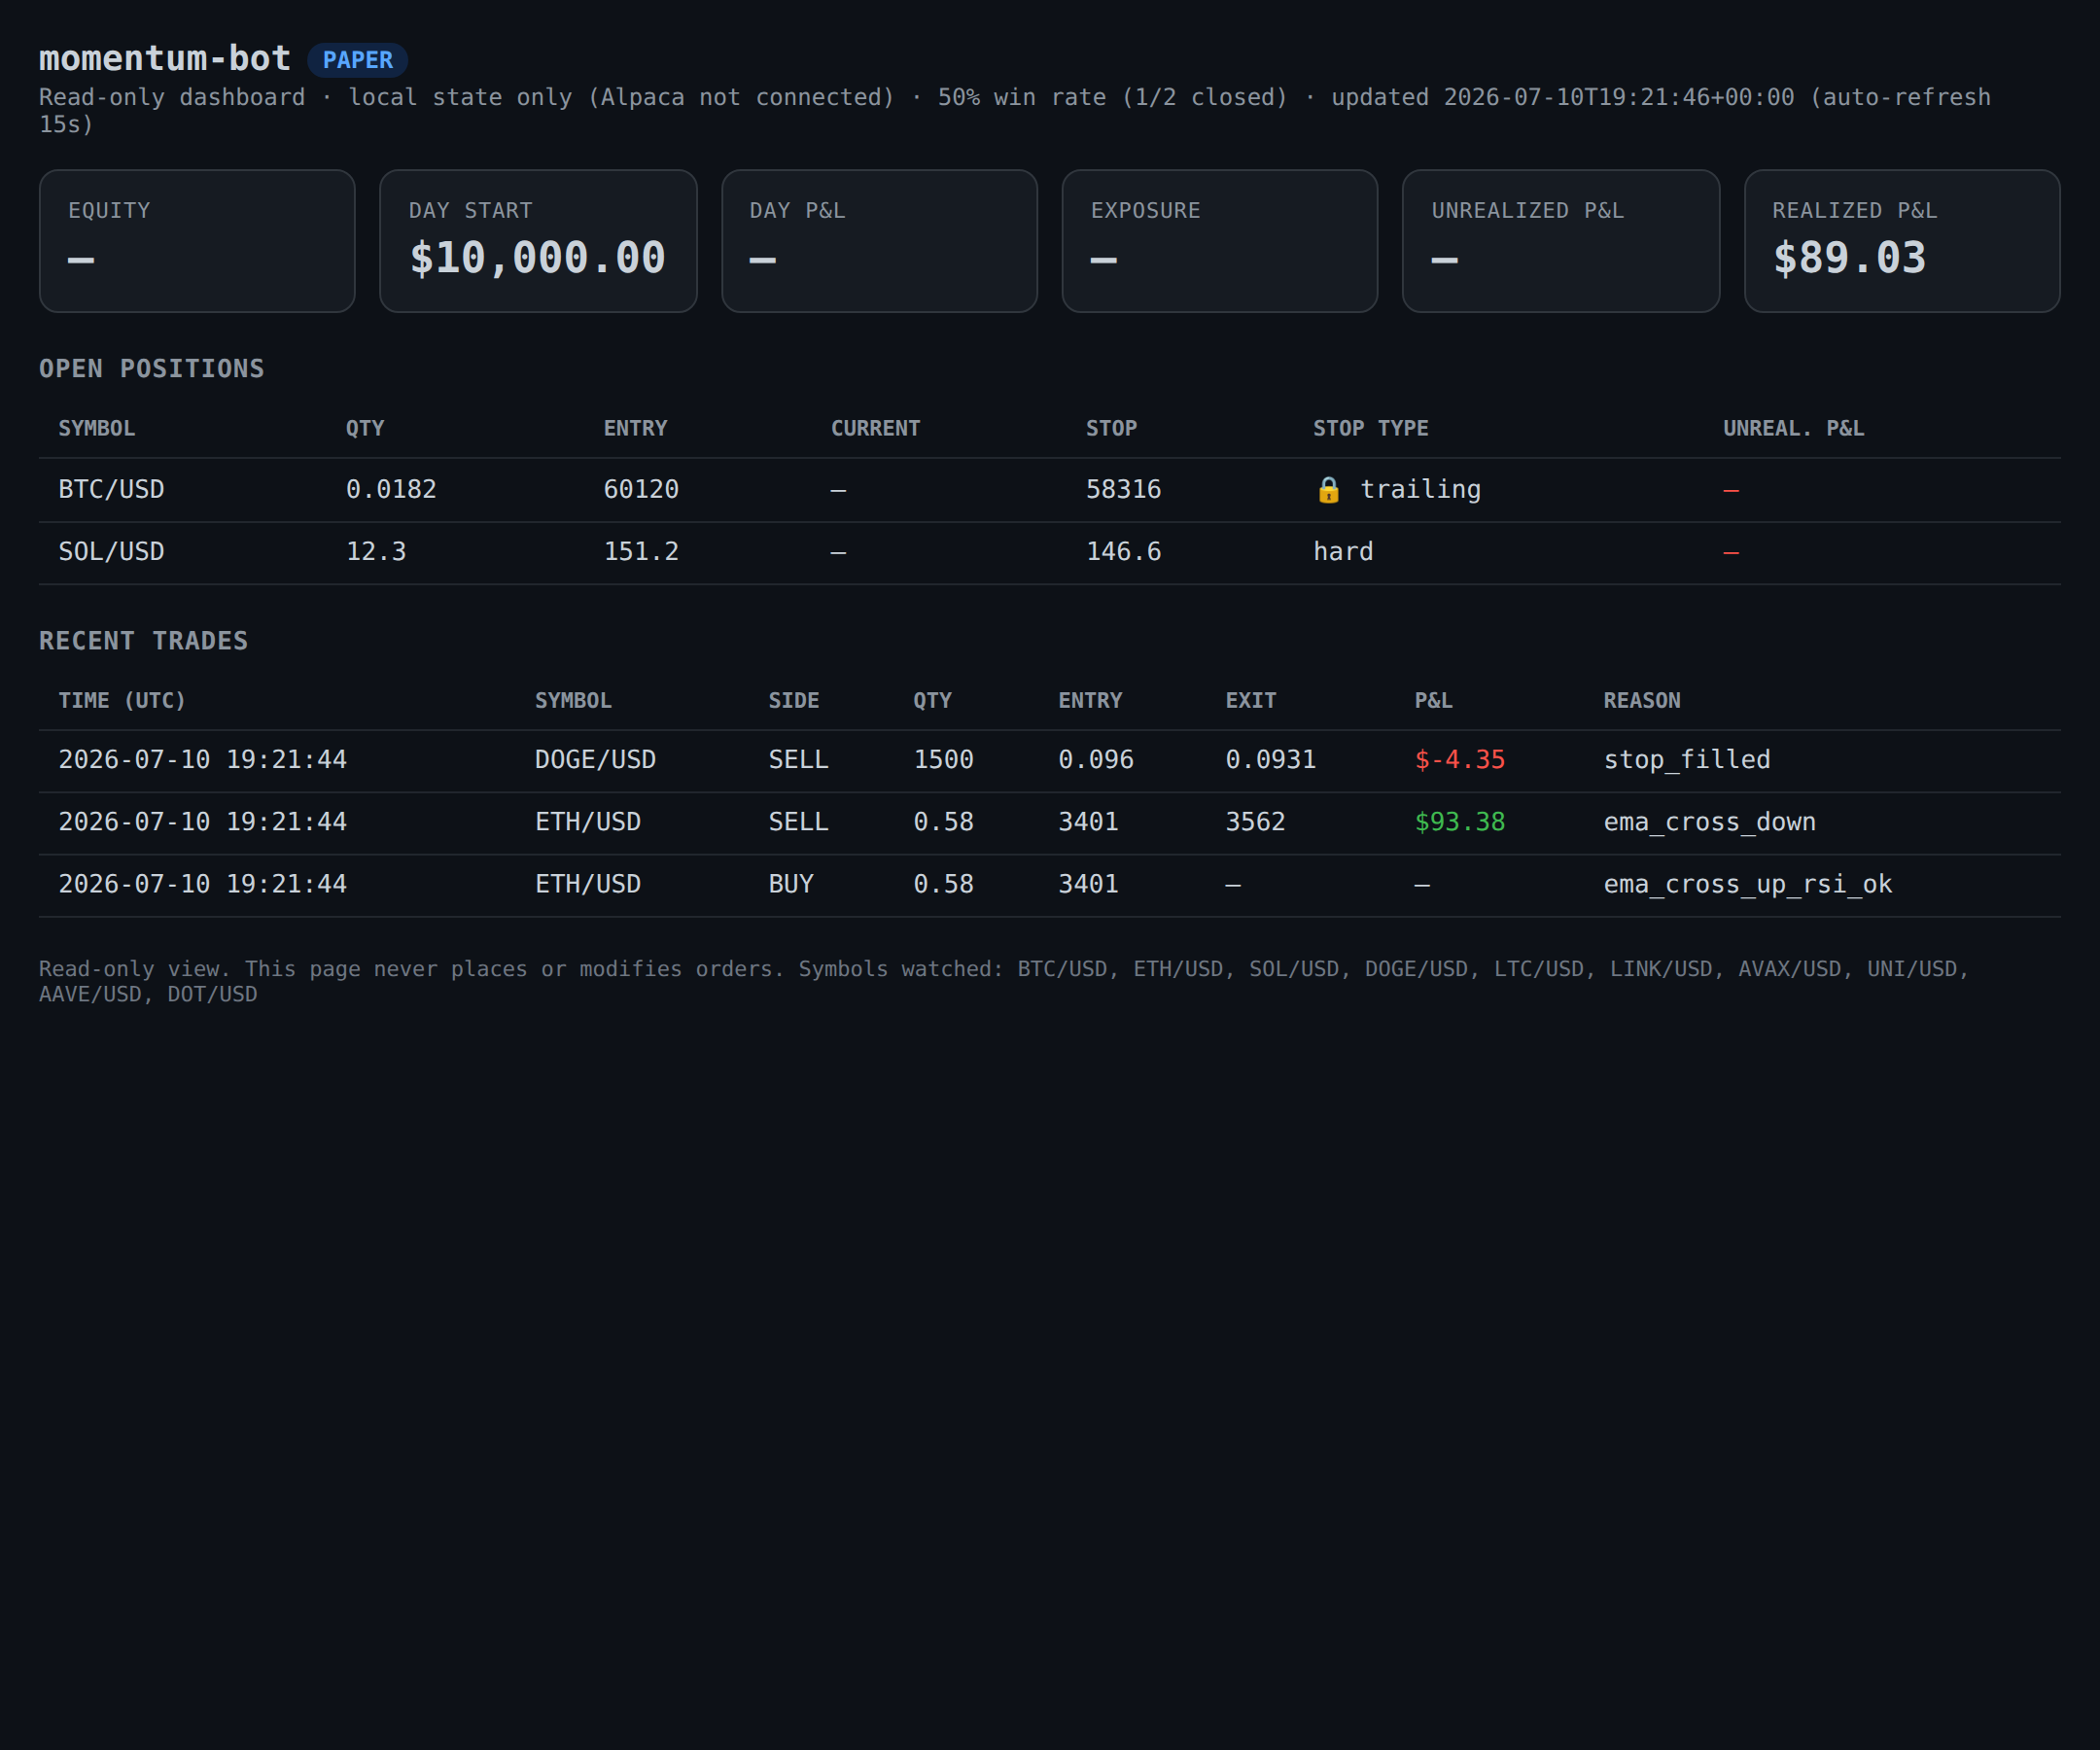
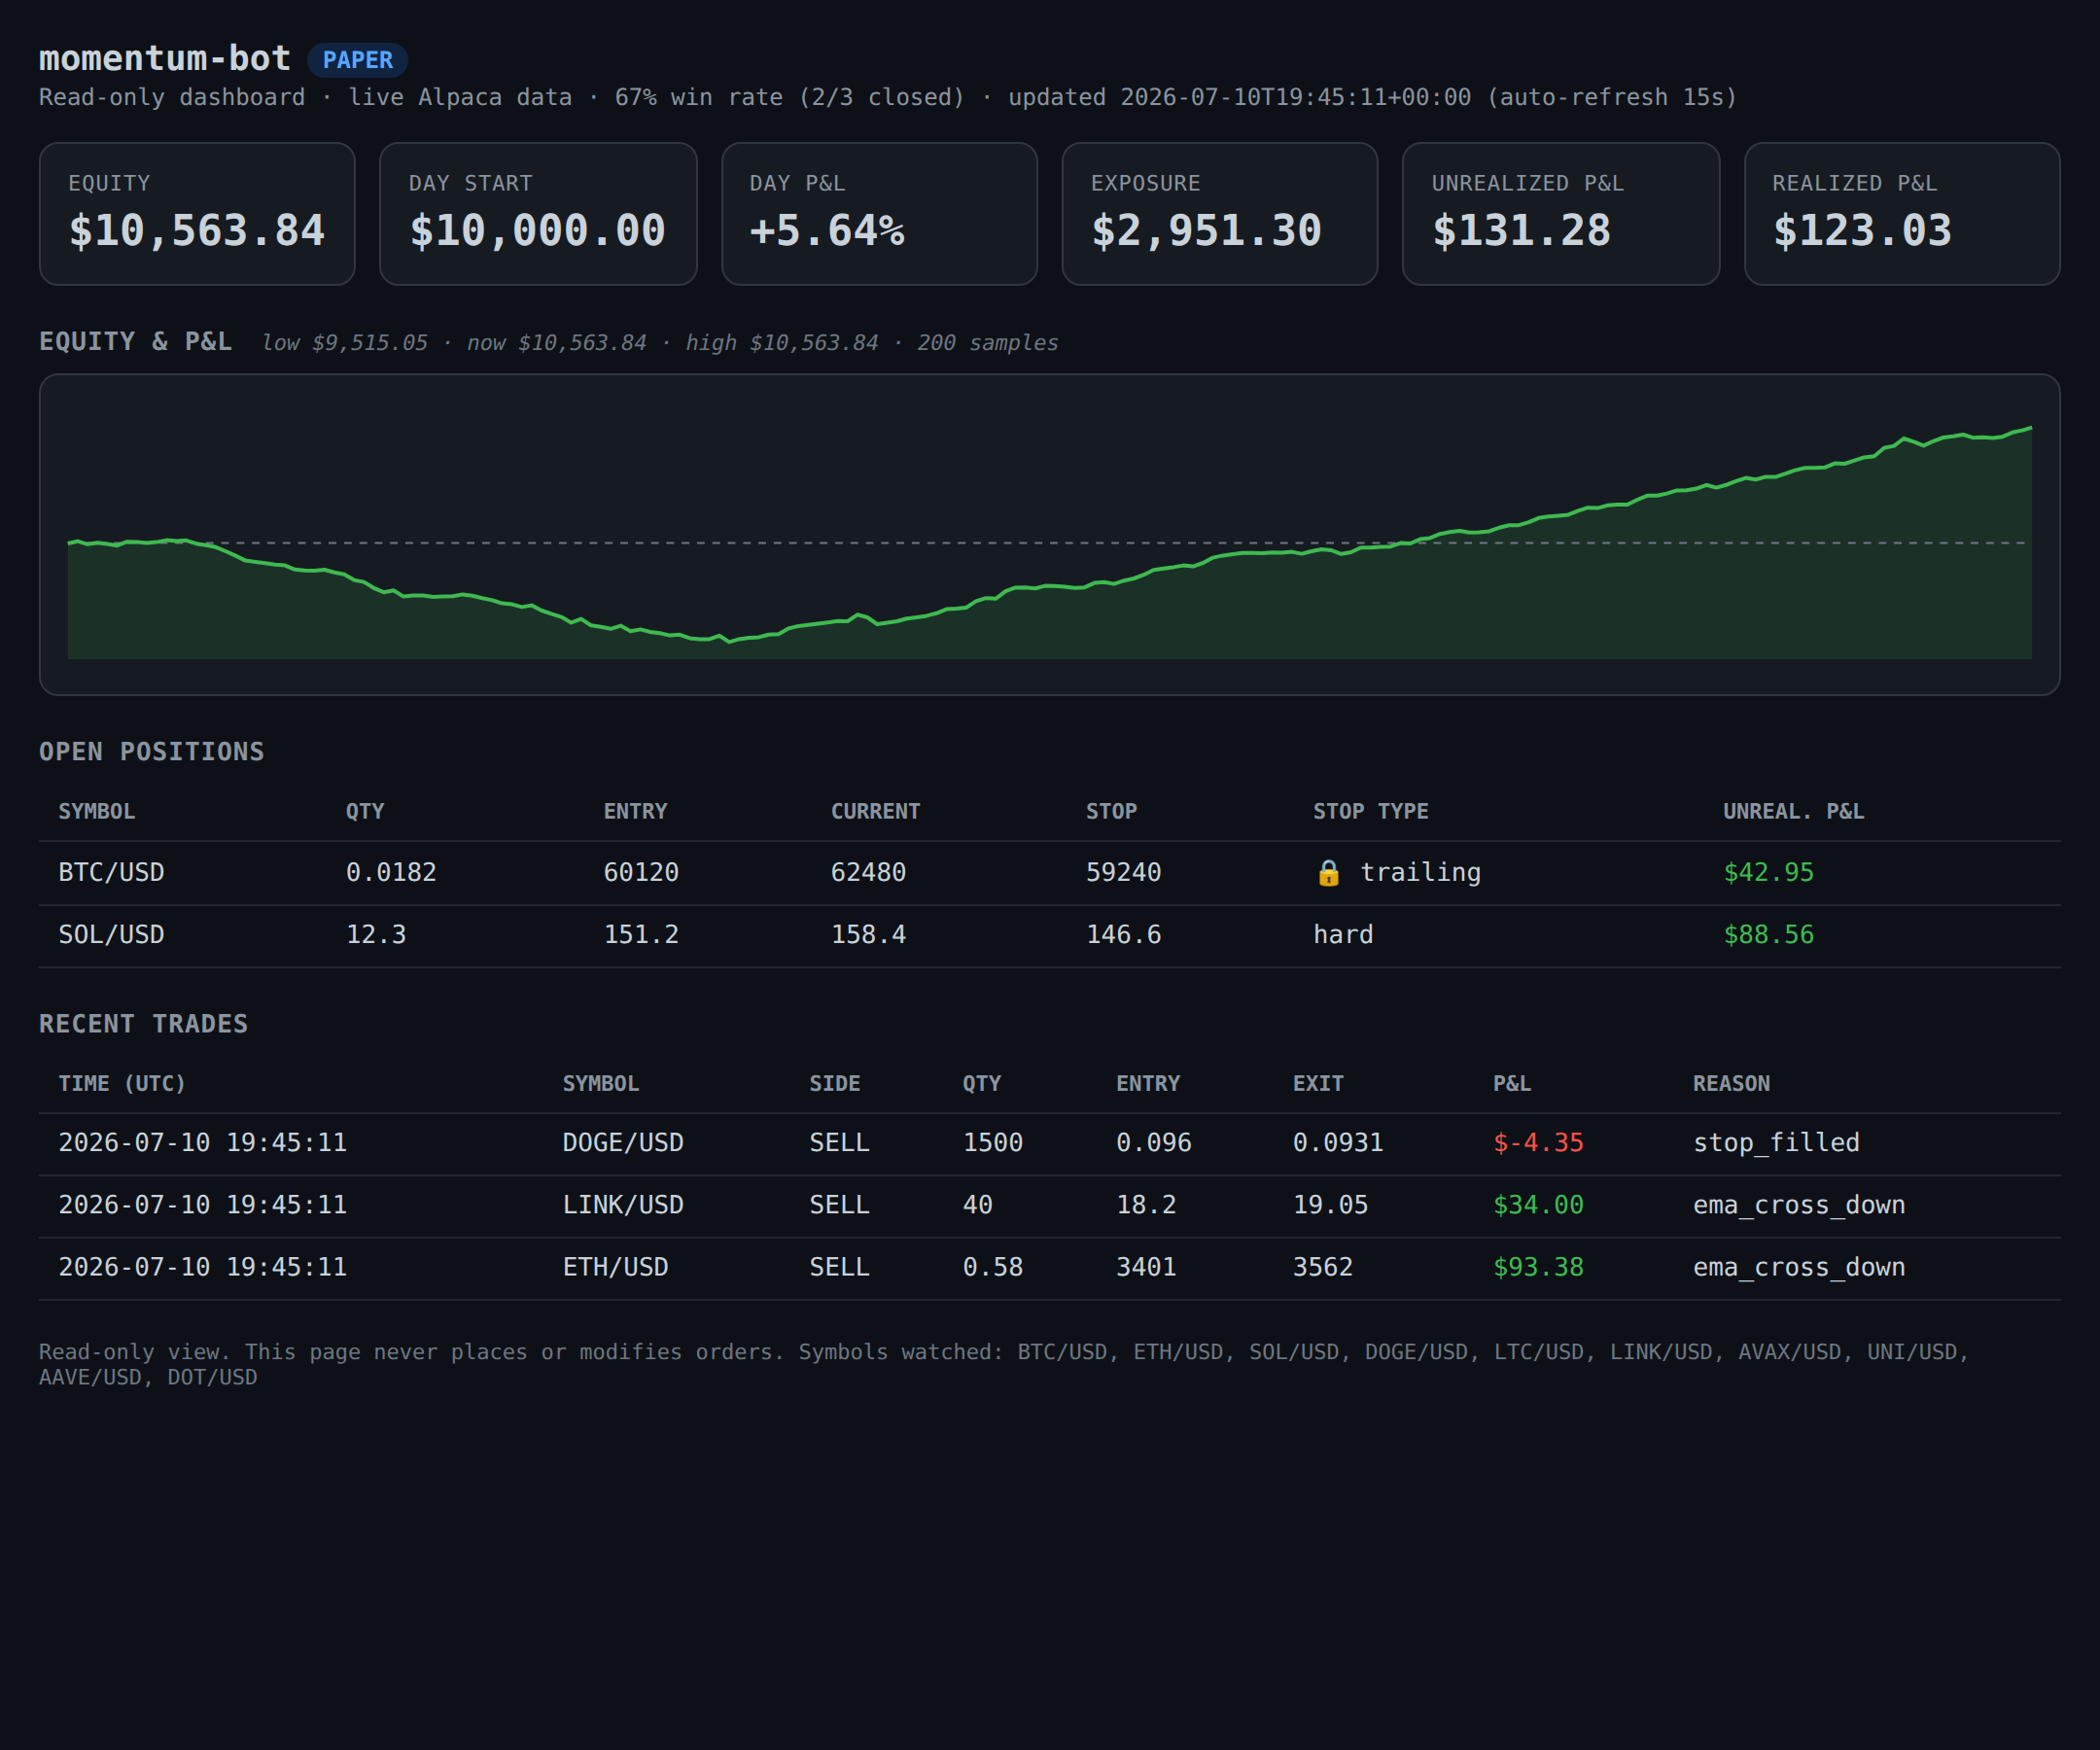
Add equity/P&L chart to the dashboard
The bot now appends an equity sample to a bounded equity_history table each
cycle (state.record_equity, pruned to MAX_EQUITY_POINTS). The read-only
dashboard renders it as an inline SVG area curve with a dashed day-start
baseline — green when equity ends above the baseline, red below — plus a
low/now/high caption. No JS/CDN, so it stays CSP-safe and dependency-free.

- state.py: equity_history table + record_equity/equity_history (bounded)
- main.py: record equity each run_once cycle
- dashboard.py: _equity_history reader, render_equity_chart(), chart section
- tests: +8 (81 total) for history record/read/prune and chart rendering
  (empty/single-point placeholder, svg output, up/down colour, flat-line
  no-crash, snapshot+html integration)
- README + docs/dashboard.png updated

Claude-Session: https://claude.ai/code/session_012T2gc4zFLu9wDsyY67z6Me

diff --git a/momentum-bot/dashboard.py b/momentum-bot/dashboard.py
@@ -77,9 +77,19 @@ class StateReader:
                 "positions": positions,
                 "recent_trades": trades,
                 "stats": stats,
+                "equity_history": self._equity_history(conn),
             }
         finally:
             conn.close()
+
+    def _equity_history(self, conn: sqlite3.Connection) -> List[list]:
+        try:
+            rows = conn.execute(
+                "SELECT timestamp, equity FROM equity_history ORDER BY id ASC"
+            ).fetchall()
+        except sqlite3.Error:
+            return []
+        return [[r["timestamp"], float(r["equity"])] for r in rows]
 
     def _trade_stats(self, conn: sqlite3.Connection) -> Dict[str, Any]:
         try:
@@ -162,6 +172,68 @@ def _fmt_num(v: Any, digits: int = 6) -> str:
         return "—"
 
 
+def render_equity_chart(points: List[list], day_start: Optional[float],
+                        width: int = 1040, height: int = 150) -> str:
+    """Inline SVG equity curve with a dashed day-start baseline.
+
+    Self-contained (no JS/CDN) so it works under a strict CSP. Colours green
+    when the latest equity is at/above the day-start baseline, red below.
+    """
+    if not points or len(points) < 2:
+        return ('<div class="muted chart-empty">Equity chart — collecting '
+                'data (one sample per cycle)…</div>')
+
+    # Downsample so the polyline stays light regardless of history length.
+    max_pts = 240
+    if len(points) > max_pts:
+        step = len(points) / max_pts
+        points = [points[int(i * step)] for i in range(max_pts)]
+    vals = [p[1] for p in points]
+
+    lo, hi = min(vals), max(vals)
+    if day_start:
+        lo, hi = min(lo, day_start), max(hi, day_start)
+    if hi == lo:                      # flat line: avoid zero range
+        hi = lo + max(1.0, abs(lo) * 0.01)
+    pad = (hi - lo) * 0.08
+    lo -= pad
+    hi += pad
+
+    n = len(vals)
+    padL, padR, padT, padB = 8, 8, 10, 12
+    plot_w = width - padL - padR
+    plot_h = height - padT - padB
+
+    def X(i: int) -> float:
+        return padL + plot_w * i / (n - 1)
+
+    def Y(v: float) -> float:
+        return padT + plot_h * (1 - (v - lo) / (hi - lo))
+
+    line = " ".join(f"{X(i):.1f},{Y(v):.1f}" for i, v in enumerate(vals))
+    base_y = padT + plot_h
+    area = f"{X(0):.1f},{base_y:.1f} {line} {X(n - 1):.1f},{base_y:.1f}"
+
+    up = (day_start is None) or (vals[-1] >= day_start)
+    stroke = "#3fb950" if up else "#f85149"
+    fill = "rgba(63,185,80,0.14)" if up else "rgba(248,81,73,0.14)"
+
+    baseline = ""
+    if day_start:
+        by = Y(day_start)
+        baseline = (f'<line x1="{padL}" y1="{by:.1f}" x2="{padL + plot_w:.1f}" '
+                    f'y2="{by:.1f}" stroke="#6e7681" stroke-width="1" '
+                    f'stroke-dasharray="4 4"/>')
+    return (
+        f'<svg viewBox="0 0 {width} {height}" width="100%" height="{height}" '
+        f'preserveAspectRatio="none" role="img" aria-label="Equity over time">'
+        f'<polygon points="{area}" fill="{fill}"/>'
+        f'{baseline}'
+        f'<polyline points="{line}" fill="none" stroke="{stroke}" '
+        f'stroke-width="2" stroke-linejoin="round"/>'
+        f'</svg>')
+
+
 def render_html(snap: Dict[str, Any]) -> str:
     e = html.escape
     mode = snap.get("mode", "PAPER")
@@ -237,6 +309,17 @@ def render_html(snap: Dict[str, Any]) -> str:
     win_line = (f"{win_rate:.0%} win rate ({stats.get('wins',0)}/"
                 f"{stats.get('closed',0)} closed)")
 
+    # Equity chart + a small min/current/max caption.
+    hist = snap.get("equity_history", [])
+    chart_svg = render_equity_chart(hist, snap.get("day_start_equity"))
+    chart_caption = ""
+    if len(hist) >= 2:
+        evals = [h[1] for h in hist]
+        chart_caption = (
+            f'<span class="muted">low {_fmt_money(min(evals))} · '
+            f'now {_fmt_money(evals[-1])} · high {_fmt_money(max(evals))} · '
+            f'{len(hist)} samples</span>')
+
     return f"""<!doctype html>
 <html lang="en"><head>
 <meta charset="utf-8">
@@ -273,6 +356,11 @@ def render_html(snap: Dict[str, Any]) -> str:
     white-space:nowrap; }}
   th {{ color:#8b949e; font-weight:600; font-size:11px; text-transform:uppercase; }}
   .pos {{ color:#3fb950; }} .neg {{ color:#f85149; }}
+  .chart {{ background:#161b22; border:1px solid #30363d; border-radius:10px;
+    padding:8px 6px 2px; margin-bottom:8px; }}
+  .chart-empty {{ padding:28px 0; }}
+  h2 .muted {{ font-size:11px; text-transform:none; letter-spacing:0;
+    font-weight:400; margin-left:6px; }}
   .muted {{ color:#6e7681; text-align:center; font-style:italic; }}
   .foot {{ color:#6e7681; font-size:11px; margin-top:20px; }}
 </style></head>
@@ -282,6 +370,9 @@ def render_html(snap: Dict[str, Any]) -> str:
     updated {e(snap.get("generated_at",""))} (auto-refresh 15s)</div>
   {kill_banner}
   <div class="cards">{card_html}</div>
+
+  <h2>Equity &amp; P&amp;L {chart_caption}</h2>
+  <div class="chart">{chart_svg}</div>
 
   <h2>Open positions</h2>
   <div class="wrap"><table>

diff --git a/momentum-bot/tests/test_dashboard.py b/momentum-bot/tests/test_dashboard.py
@@ -75,6 +75,49 @@ def test_render_html_is_valid_and_readonly(populated):
     assert "<form" not in page.lower()
 
 
+def test_equity_chart_empty_placeholder():
+    svg = dashboard.render_equity_chart([], 10_000.0)
+    assert "collecting" in svg.lower()
+    assert "<svg" not in svg  # placeholder, not a chart
+    # A single point is still not enough to draw a line.
+    assert "<svg" not in dashboard.render_equity_chart([["t", 10_000.0]], 10_000.0)
+
+
+def test_equity_chart_renders_svg():
+    pts = [["t0", 10_000.0], ["t1", 10_120.0], ["t2", 10_080.0], ["t3", 10_250.0]]
+    svg = dashboard.render_equity_chart(pts, 10_000.0)
+    assert svg.startswith("<svg") and "polyline" in svg
+    assert "stroke-dasharray" in svg           # day-start baseline drawn
+    assert "#3fb950" in svg                     # green: ends above baseline
+
+
+def test_equity_chart_red_when_below_baseline():
+    pts = [["t0", 10_000.0], ["t1", 9_800.0], ["t2", 9_600.0]]
+    svg = dashboard.render_equity_chart(pts, 10_000.0)
+    assert "#f85149" in svg                     # red: ends below day start
+
+
+def test_equity_chart_flat_line_no_crash():
+    pts = [["t0", 10_000.0]] * 3   # zero range must not divide by zero
+    svg = dashboard.render_equity_chart([["t%d" % i, 10_000.0] for i in range(3)],
+                                        10_000.0)
+    assert "<svg" in svg
+
+
+def test_snapshot_and_html_include_chart(populated):
+    cfg, reader = populated
+    # Add some equity samples via a writable connection.
+    st = State(reader.db_path, reader.db_path + ".csv")
+    for v in (10_000, 10_050, 10_020, 10_150):
+        st.record_equity(float(v))
+    st.close()
+    snap = dashboard.build_snapshot(cfg, reader)
+    assert len(snap["equity_history"]) == 4
+    page = dashboard.render_html(snap)
+    assert "Equity &amp; P&amp;L" in page and "<svg" in page
+    assert "samples" in page
+
+
 def test_kill_switch_banner_renders(populated, tmp_path):
     cfg, reader = populated
     # Flip the kill switch in a fresh writable connection, then re-read.

diff --git a/momentum-bot/state.py b/momentum-bot/state.py
@@ -19,6 +19,10 @@ from datetime import datetime, timezone
 from typing import Dict, List, Optional
 
 
+# Retention cap for the equity-history table (~2 days at one sample/minute).
+MAX_EQUITY_POINTS = 3000
+
+
 def _utcnow_iso() -> str:
     return datetime.now(timezone.utc).isoformat()
 
@@ -81,6 +85,12 @@ class State:
                 pnl REAL,
                 reason_entry TEXT,
                 reason_exit TEXT
+            )""")
+        cur.execute("""
+            CREATE TABLE IF NOT EXISTS equity_history (
+                id INTEGER PRIMARY KEY AUTOINCREMENT,
+                timestamp TEXT NOT NULL,
+                equity REAL NOT NULL
             )""")
         self.conn.commit()
 
@@ -200,6 +210,28 @@ class State:
         with open(self.trades_csv_path, "a", newline="") as fh:
             csv.writer(fh).writerow([ts, symbol, side, qty, entry, exit,
                                      stop, pnl, reason_entry, reason_exit])
+
+    # --- equity history (for the dashboard chart) -----------------------
+    def record_equity(self, equity: float, ts: Optional[str] = None) -> None:
+        """Append an equity sample and prune to the retention cap."""
+        ts = ts or _utcnow_iso()
+        self.conn.execute(
+            "INSERT INTO equity_history(timestamp, equity) VALUES(?, ?)",
+            (ts, equity))
+        # Keep the table bounded (roughly MAX_EQUITY_POINTS most-recent rows).
+        self.conn.execute(
+            "DELETE FROM equity_history WHERE id <= "
+            "(SELECT MAX(id) FROM equity_history) - ?", (MAX_EQUITY_POINTS,))
+        self.conn.commit()
+
+    def equity_history(self, limit: Optional[int] = None):
+        """Return [(timestamp, equity), ...] oldest-first."""
+        q = "SELECT timestamp, equity FROM equity_history ORDER BY id ASC"
+        rows = self.conn.execute(q).fetchall()
+        out = [(r["timestamp"], float(r["equity"])) for r in rows]
+        if limit is not None and len(out) > limit:
+            out = out[-limit:]
+        return out
 
     def close(self) -> None:
         self.conn.close()

diff --git a/momentum-bot/tests/test_state.py b/momentum-bot/tests/test_state.py
@@ -2,6 +2,7 @@ import os
 
 import pytest
 
+import state as state_module
 from state import PositionRecord, State
 
 
@@ -60,6 +61,33 @@ def test_position_crud(store):
     assert "BTC/USD" in store.all_positions()
     store.delete_position("BTC/USD")
     assert store.get_position("BTC/USD") is None
+
+
+def test_equity_history_record_and_read(store):
+    for i in range(5):
+        store.record_equity(10_000 + i)
+    hist = store.equity_history()
+    assert len(hist) == 5
+    assert hist[0][1] == 10_000 and hist[-1][1] == 10_004
+    # Each entry is (timestamp, equity).
+    assert isinstance(hist[0][0], str) and isinstance(hist[0][1], float)
+
+
+def test_equity_history_limit(store):
+    for i in range(10):
+        store.record_equity(100 + i)
+    assert len(store.equity_history(limit=3)) == 3
+    assert store.equity_history(limit=3)[-1][1] == 109
+
+
+def test_equity_history_prunes_to_cap(store, monkeypatch):
+    monkeypatch.setattr(state_module, "MAX_EQUITY_POINTS", 4)
+    for i in range(10):
+        store.record_equity(float(i))
+    hist = store.equity_history()
+    # Bounded to ~MAX_EQUITY_POINTS most-recent rows.
+    assert len(hist) <= 5
+    assert hist[-1][1] == 9.0  # newest retained
 
 
 def test_trade_ledger_writes_csv(store, tmp_path):

diff --git a/momentum-bot/main.py b/momentum-bot/main.py
@@ -401,6 +401,7 @@ class Engine:
     def run_once(self) -> None:
         equity = self.broker.get_equity()
         day_start = self.state.roll_day_if_needed(equity)
+        self.state.record_equity(equity)  # time-series for the dashboard chart
 
         if self.check_kill_switch(day_start, equity):
             self.log.critical("TRADING HALTED (kill switch). Reason: %s. "

diff --git a/momentum-bot/README.md b/momentum-bot/README.md
@@ -226,9 +226,10 @@ The same ledger is kept in SQLite (`state.db`, table `trades`) for querying.
 ### Optional: read-only web dashboard
 
 A separate, **read-only** process shows what the bot is doing in a browser —
-equity, open positions, live unrealized P&L, kill-switch status, and the recent
-trade ledger. It opens the state file in read-only mode and has **no** endpoints
-that place, cancel, or modify orders (mutating HTTP methods return `405`).
+an **equity/P&L curve**, current equity, open positions, live unrealized P&L,
+kill-switch status, and the recent trade ledger. It opens the state file in
+read-only mode and has **no** endpoints that place, cancel, or modify orders
+(mutating HTTP methods return `405`).
 
 ```bash
 python dashboard.py          # serves on http://0.0.0.0:8080
@@ -245,6 +246,9 @@ connected; they populate with live data once keys are set.)*
 - Reads `state.db` + `trades.csv`. If Alpaca keys are set (and
   `DASHBOARD_LIVE` isn't `false`) it also shows **live** equity and unrealized
   P&L; otherwise it degrades to local state only.
+- The **equity chart** is an inline SVG (no JS/CDN) drawn from an
+  equity-history table the bot appends to each cycle, with a dashed day-start
+  baseline so intraday P&L is obvious at a glance.
 - Config: `DASHBOARD_PORT` (default `8080`), `DASHBOARD_HOST` (default
   `0.0.0.0`), `DASHBOARD_LIVE` (default `true`).
 - Zero extra dependencies — built on Python's stdlib `http.server`.